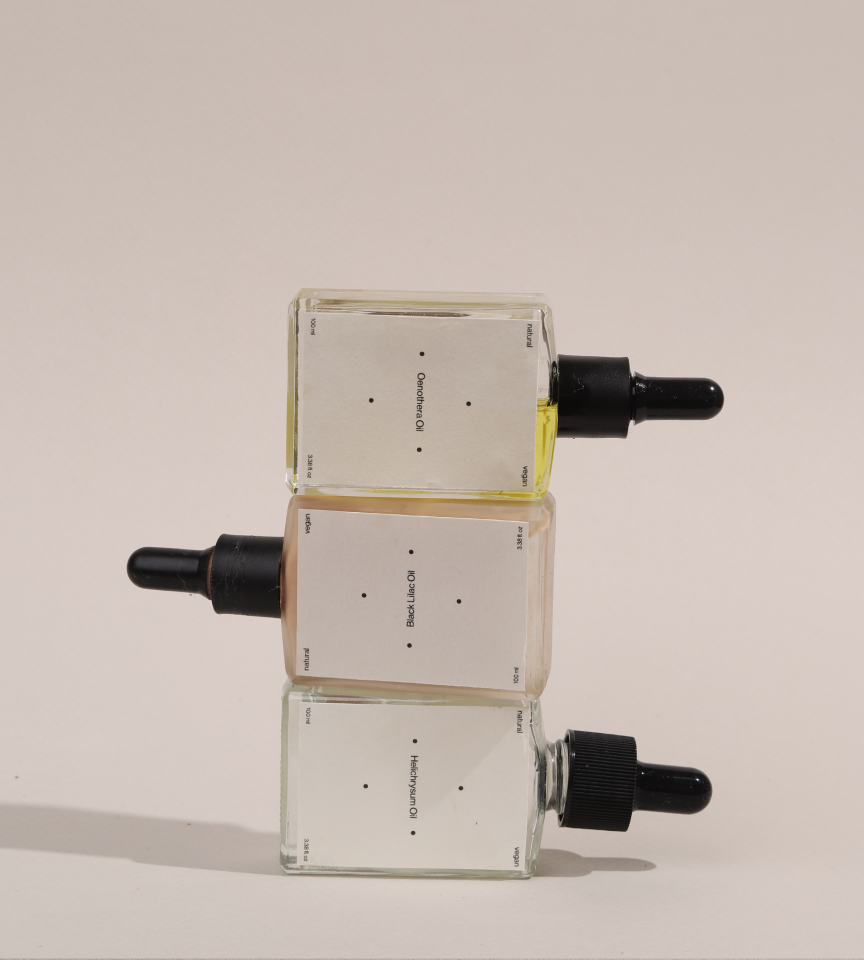
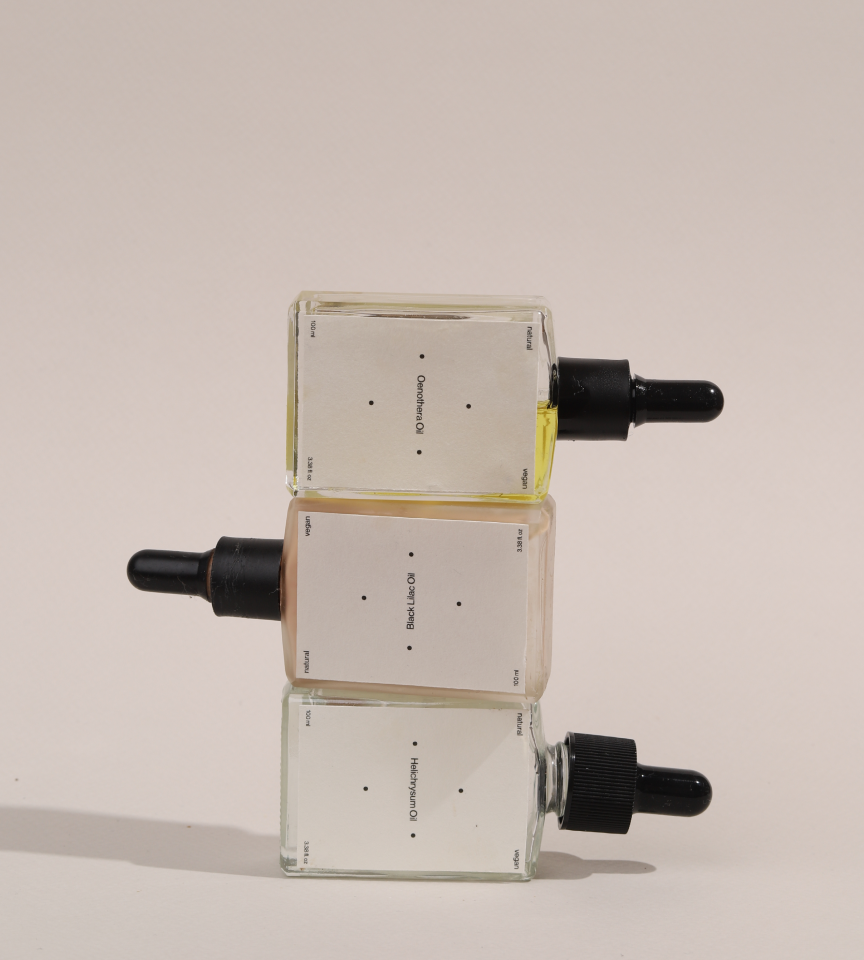
photos and font changed, styles fixed

diff --git a/style.scss b/style.scss
@@ -1,6 +1,6 @@
 @font-face {
-    font-family: Aeonik-Medium;
-    src: url(fonts/Aeonik-Medium.otf);
+    font-family: Aeonik-Regular;
+    src: url(fonts/AeonikTRIAL-Regular.otf);
 }
 
 @font-face {
@@ -40,7 +40,7 @@ p,
 a,
 span,
 div {
-    font-family: Aeonik-Medium, sans-serif;
+    font-family: Aeonik-Regular, sans-serif;
     font-size: 9px;
     letter-spacing: 1.5px;
     line-height: 160%;
@@ -59,7 +59,6 @@ a {
 header {
     .header-flex-container {
         margin-top: 50px;
-
         display: flex;
         justify-content: space-between;
         width: 100%;
@@ -98,8 +97,7 @@ main {
 
     .title {
         margin: 10px 0;
-        display: flex;
-        justify-content: space-between;
+        text-align: center;
     }
 
     .logo-container {
@@ -108,9 +106,7 @@ main {
         margin-top: 18px;
         
         .slider {
-            background-image: url('img/slider1.png');
-            background-position: center top;
-            background-size: 100% auto;
+                width: 100%;
         }
     }
 
@@ -139,10 +135,6 @@ footer {
 }
 
 @media (min-width: 992px) {
-    h1,
-    .letter-white {
-        font-size: 128px;
-    }
 
     p,
     a,
@@ -210,8 +202,8 @@ footer {
             left: 50%;
             top: 30%;
             z-index: 10;
-            width: 1190px;
-            font-size: 128px;
+            width: 1000px;
+            font-size: 102px;
             word-spacing: 50px;
             mix-blend-mode: difference;
             color: black;
@@ -236,4 +228,13 @@ footer {
             margin-top: 48px;
         }
     }
+}
+
+@media (min-width: 1200px) {
+    main{
+        .title{
+            width: 1200px;
+            font-size: 128px;
+        }
+}
 }

diff --git a/style.min.css b/style.min.css
@@ -1,6 +1,6 @@
 @font-face {
-  font-family: Aeonik-Medium;
-  src: url(fonts/Aeonik-Medium.otf);
+  font-family: Aeonik-Regular;
+  src: url(fonts/AeonikTRIAL-Regular.otf);
 }
 
 @font-face {
@@ -41,7 +41,7 @@ p,
 a,
 span,
 div {
-  font-family: Aeonik-Medium, sans-serif;
+  font-family: Aeonik-Regular, sans-serif;
   font-size: 9px;
   letter-spacing: 1.5px;
   line-height: 160%;
@@ -97,12 +97,7 @@ main {
 
 main .title {
   margin: 10px 0;
-  display: -webkit-box;
-  display: -ms-flexbox;
-  display: flex;
-  -webkit-box-pack: justify;
-      -ms-flex-pack: justify;
-          justify-content: space-between;
+  text-align: center;
 }
 
 main .logo-container {
@@ -112,9 +107,7 @@ main .logo-container {
 }
 
 main .logo-container .slider {
-  background-image: url("img/slider1.png");
-  background-position: center top;
-  background-size: 100% auto;
+  width: 100%;
 }
 
 main .text-full-container {
@@ -144,10 +137,6 @@ footer .ask-link {
 }
 
 @media (min-width: 992px) {
-  h1,
-  .letter-white {
-    font-size: 128px;
-  }
   p,
   a,
   span {
@@ -204,8 +193,8 @@ footer .ask-link {
     left: 50%;
     top: 30%;
     z-index: 10;
-    width: 1190px;
-    font-size: 128px;
+    width: 1000px;
+    font-size: 102px;
     word-spacing: 50px;
     mix-blend-mode: difference;
     color: black;
@@ -228,6 +217,13 @@ footer .ask-link {
   }
   footer .ask-link {
     margin-top: 48px;
+  }
+}
+
+@media (min-width: 1200px) {
+  main .title {
+    width: 1200px;
+    font-size: 128px;
   }
 }
 /*# sourceMappingURL=style.min.css.map */

diff --git a/js/script.js b/js/script.js
@@ -11,13 +11,10 @@ setInterval(showTime, 1000);
 
 document.addEventListener('DOMContentLoaded', () => {
   const slider = document.querySelector('.slider');
-  slider.style.backgroundImage = 'sdas';
-  const style = getComputedStyle(slider);
-  console.log('elem', style.backgroundImage);
 
   let i = 0;
   setInterval(() => {
-    slider.style.backgroundImage = `url(img/slider${i}.png)`;
+    slider.src = `img/slider${i}.png`;
     i += 1;
     if (i === 3) {
       i = 0;

diff --git a/index.html b/index.html
@@ -58,7 +58,7 @@
 
             <div class="logo-container">
                 <h1 class="title">CREMA y POMADA</h1>
-                <div class="slider"></div>
+                    <img class="slider" src="img/slider2.png"/>
                 <div class="text-full-container">
                     <div class="text-full"><span>Design</span> <span>Studio</span> <span>focused</span>
                         <span>on</span>
